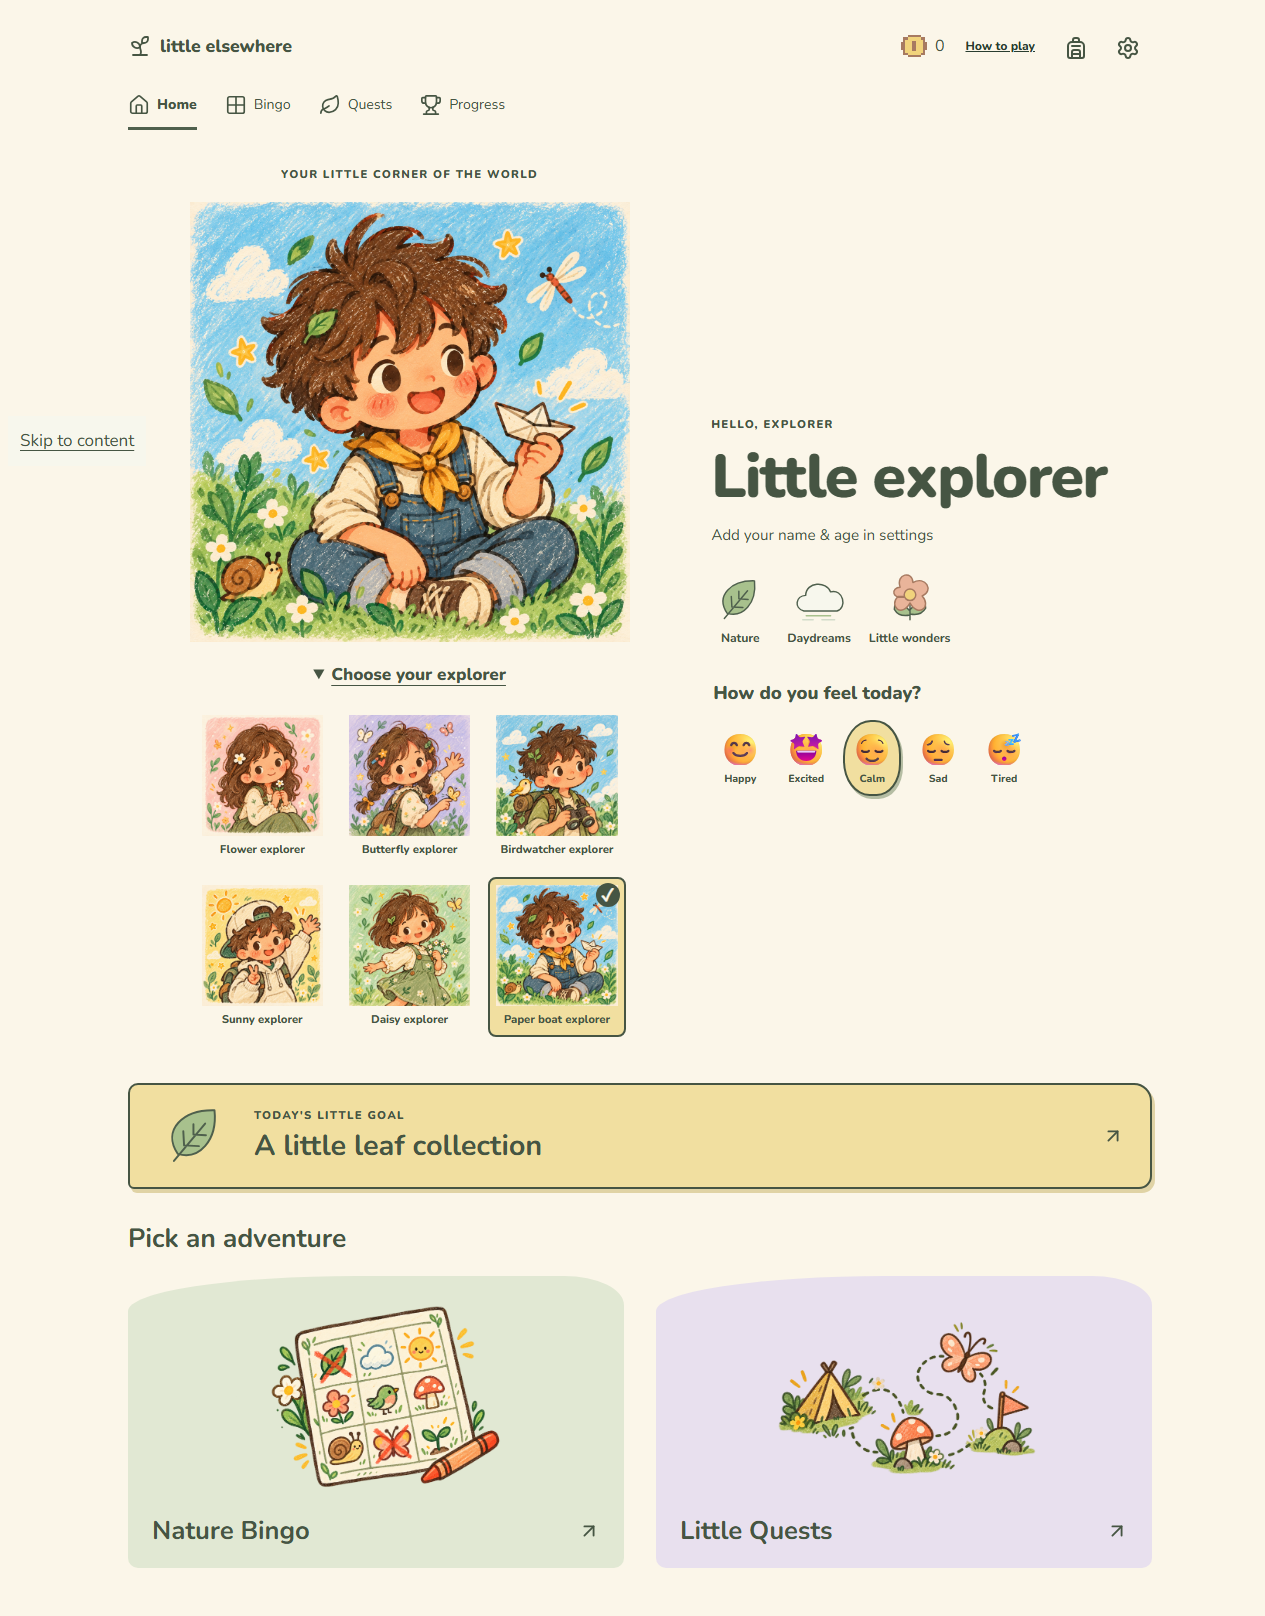
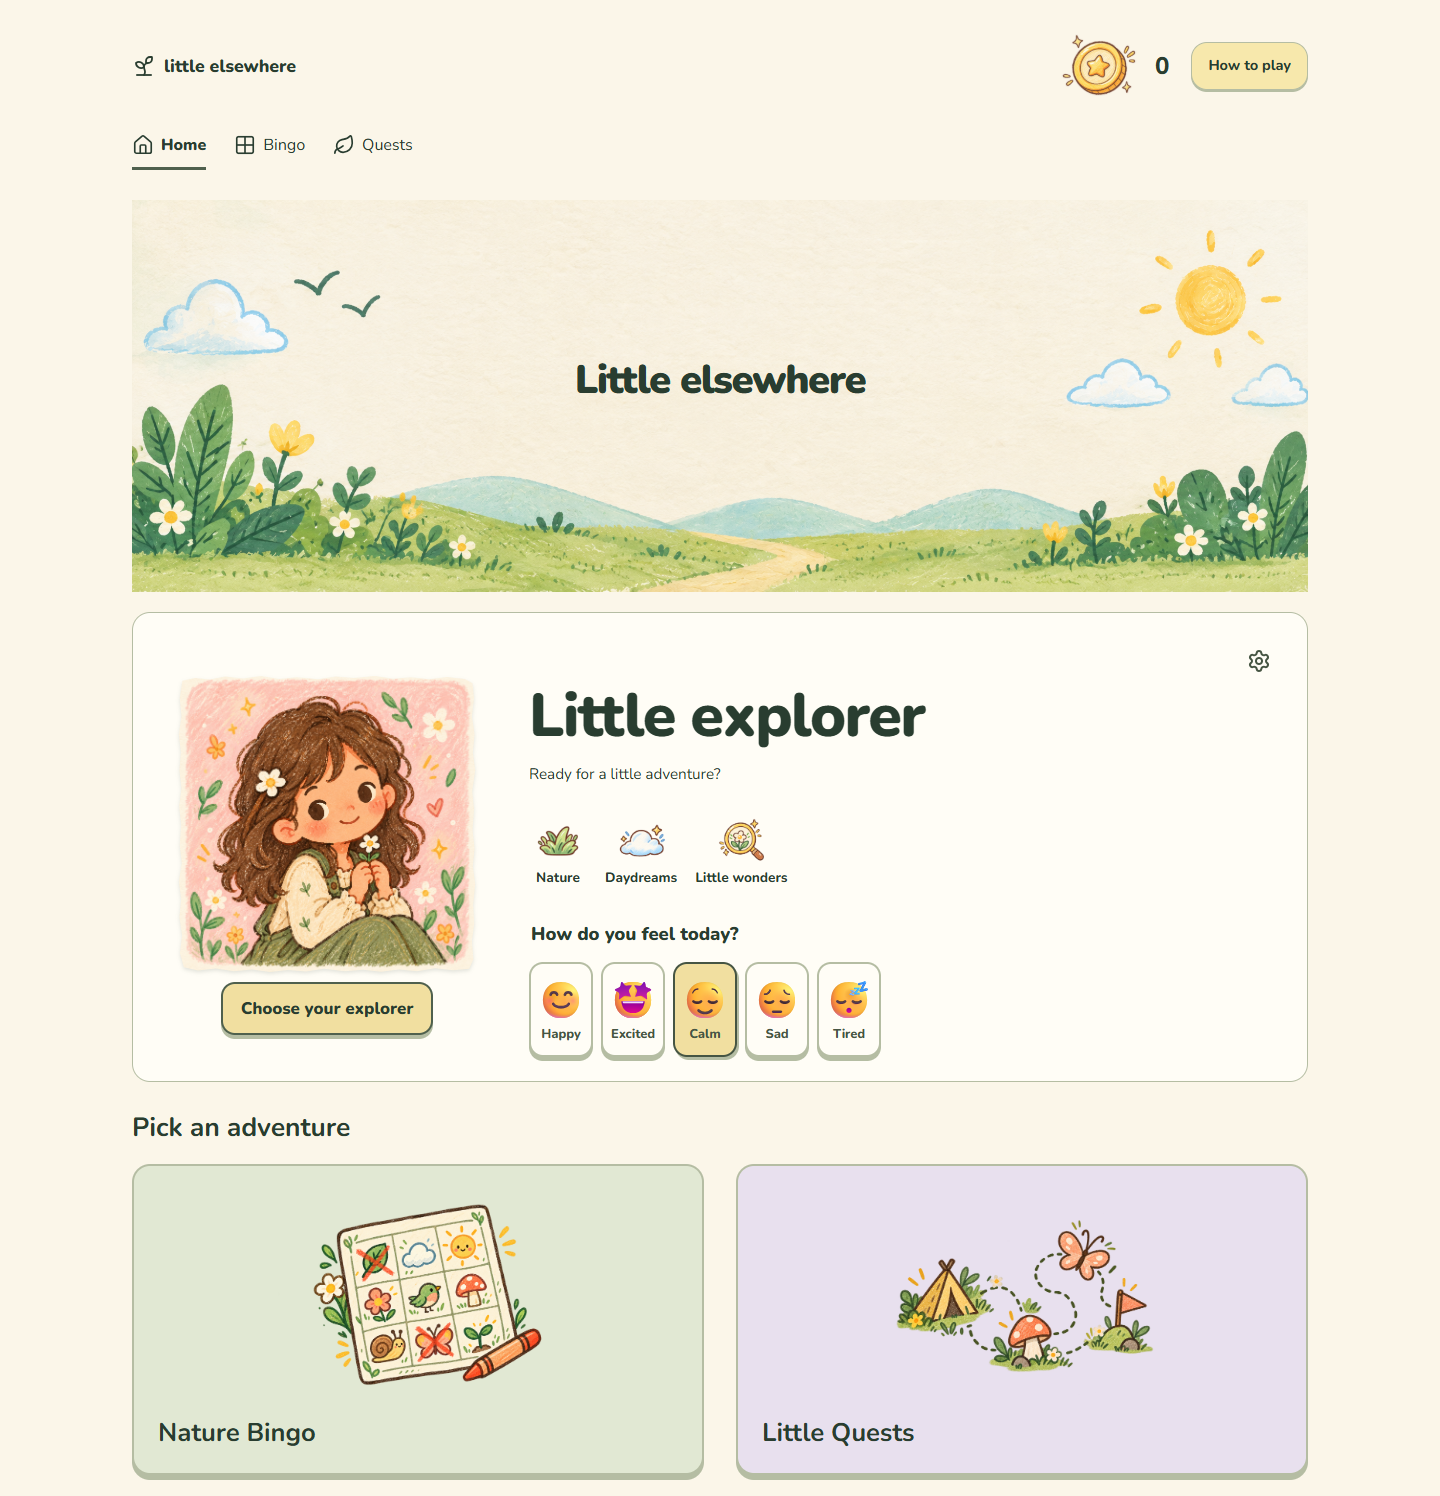
updated readme.md

diff --git a/README.md b/README.md
@@ -1,104 +1,150 @@
-# Little Elsewhere
+<h1 align="center">Little Elsewhere</h1>
 
-I'm building Little Elsewhere to make time away from a screen feel like a small adventure. Children choose something to explore, put the device away, then return to record their discoveries.
+<p align="center"><strong>Small adventures. A little more world.</strong></p>
+<p align="center">A children's outdoor adventure journal, made for time away from the screen.</p>
 
 <p align="center">
-  <img src="public/screenshots/home-current.png" alt="Little Elsewhere homepage with an explorer avatar, mood choices, today's little goal, Nature Bingo, and Little Quests" width="720" />
+  <a href="#a-peek-inside">Screenshots</a> &middot;
+  <a href="#what-works-today">Features</a> &middot;
+  <a href="#run-it-locally">Get started</a> &middot;
+  <a href="#where-i-want-to-take-it">Future plans</a>
 </p>
 
-## Why I built it
+<p align="center">
+  <img src="public/screenshots/home-current.png" alt="Little Elsewhere Home with an illustrated landscape banner, torn-paper explorer portrait, mood cards, and Bingo and Quest invitations" width="900" />
+</p>
 
-I wanted to give children a gentle reason to look around, move, create, and spend time with others. Small adventures, without streak penalties or pressure to keep playing.
+## Why Little Elsewhere?
 
-## User journey
+I wanted to make putting a screen down feel like the beginning of something good. A cloud worth noticing. A plant to care for. A small discovery to bring back.
 
-```mermaid
-flowchart TD
-    Open["Open the app"] --> Profile["View explorer profile and selected avatar"]
-    Profile --> Mood["Choose a mood"]
-    Mood --> Goal["View today's little goal"]
-    Goal --> Choose{"Pick an adventure"}
-    Choose --> Bingo["Nature Bingo: choose a discovery"]
-    Choose --> Quest["Little Quests: start a quest"]
-    Bingo --> Activity["Put the device away and do a real-world activity"]
-    Quest --> Activity
-    Activity --> Return{"Return to the app"}
-    Return --> Mark["Bingo: draw an X or use Mark"]
-    Return --> Complete["Quest: select I did it, then claim coins"]
-    Mark --> Reward["Coins for the first bingo line or full board, or a quest claim"]
-    Complete --> Reward
-    Reward --> Next{"What next?"}
-    Next --> Choose
-    Next --> Progress["View discoveries, coins, and milestones"]
-```
+Little Elsewhere gives children a gentle prompt, then a place to record what they explored. Its warm paper surfaces, original illustrations, and scrapbook details make it feel like a personal adventure journal. There are no streak penalties or pressure to keep playing.
 
-Mood selection is optional. Today's adventure prioritizes completed quests with unclaimed coins, then active quests, then available quests, and falls back to the current Bingo board when all quests are claimed. It does not reset daily. Bingo marks only earn coins when an eligible line or full board is completed.
+**Choose an adventure. Put the device away. Explore. Come back with a discovery.**
 
-## Features
+## What works today
 
-- Explorer profile with an optional name and age, six selectable avatars, and five moods.
-- A 3 by 3 Nature Bingo board with freehand X marks, a Mark button, undo, and confirmed board replacement.
-- Eight Little Quests with indoor/adapted alternatives and separate start, complete, and claim steps.
-- One-time coin rewards: 10 for the first bingo line, 20 more for the first full board, and 5–15 per quest. The current maximum is 105 coins per local profile.
-- A recent adventure journal and backpack collection on Home, showing discoveries, completed quests, and three milestones. The compatible `#/progress` route shares these sections. Milestones acknowledge progress without extra coins.
-- Local saves, first-time help, and warnings for failed saves, invalid data, or conflicting browser tabs.
+| Part of the journal | What children can do |
+| --- | --- |
+| **My explorer** | Choose from six portraits, pick a mood, and optionally save a name and age. |
+| **Nature Bingo** | Find nine little wonders. Draw an X or use Mark, undo a discovery, and start a fresh board. |
+| **Little Quests** | Explore eight activities with a Choose / Explore / Collect trail, directions, and indoor or adapted alternatives. |
+| **Coins** | Collect rewards for a first Bingo line, a first full board, and completed quests. |
+| **Journal and backpack** | Revisit recent adventures, nature finds, and three earned milestones on Home. |
+| **A helping hand** | Reopen the play guide, read friendly safety reminders, and use touch or keyboard controls. |
 
-Choose safe activities with a caregiver as needed. Progress is self-reported; the app encourages putting the device away and does not close, block, or control other apps.
+A shared illustrated banner ties the pages together. Desktop layouts give the artwork room to breathe; mobile layouts stack naturally and keep navigation within reach.
 
-## How it works
+### A little recognition, without an endless loop
 
-```mermaid
-flowchart TD
-    UI["React pages: Home, Bingo, Quests, Progress"] -->|"User actions"| Provider["AppStateProvider dispatch"]
-    Provider --> Reducer["App reducer"]
-    Reducer --> Games["Bingo marks and quest transitions"]
-    Reducer --> Profile["Profile, mood, and avatar updates"]
-    Games --> Rewards["Reward rules and duplicate checks"]
-    Rewards --> State["Updated app state and coin ledger"]
-    Profile --> State
-    State -->|"Save through AppStateProvider"| Save["Serialize to localStorage"]
-    State -->|"Render through React context"| UI
-    Save --> Stored["Saved browser snapshot"]
-    Reopen["Reopen the app"] --> Load["Load, validate, and migrate saved data"]
-    Stored --> Load
-    Load -->|"Valid saved data"| Restore["Initialize AppStateProvider"]
-    Restore --> UI
-```
+The first Bingo line earns **10 coins**, the first full board earns **20 more**, and each quest earns **5?15**. Rewards are awarded once, for a maximum of **105 coins** in the current catalog. Undoing marks or starting a new board does not award the same coins again. Milestones do not add extra rewards, and coins cannot currently be spent.
 
-The diagrams describe implemented behavior. Saves stay in the same browser and device, with one shared local profile and no backend or account sync. Clearing site storage removes progress. Invalid saves require confirmed recovery; failed saves keep progress in memory and offer a retry.
+Progress is self-reported. The app encourages exploring with a grown-up and putting the device away; it does not control other apps. The featured adventure highlights unclaimed, active, then available quests. It is not a daily reset.
 
-## Tech stack
+## A peek inside
 
-React, TypeScript, Vite, plain CSS, and Lucide icons. Nunito is loaded locally; retired Press Start 2P files and their license notice remain bundled. Tests use Vitest, React Testing Library, and jsdom. Exact versions are pinned in [package.json](package.json) and package-lock.json.
+Actual browser captures of the current interface, refreshed **14 October 2026**. The screenshots use the default explorer, with Calm selected and no completed activities.
 
-See [ARCHITECTURE.md](ARCHITECTURE.md) for the current folder map, module responsibilities, CSS ownership, and retained development resources.
+| Nature Bingo | Little Quests |
+| :---: | :---: |
+| [![Illustrated desktop Bingo board with nine discoveries and a friendly safety reminder](public/screenshots/bingo-desktop.png)](public/screenshots/bingo-desktop.png) | [![Desktop quest cards with supplied artwork, progress trails, and coin rewards](public/screenshots/quests-desktop.png)](public/screenshots/quests-desktop.png) |
 
-## Setup and run
+<details>
+<summary><strong>Open the mobile scrapbook</strong></summary>
 
-Requires Node.js `^24.15.0` or `>=26.0.0` and npm. [.nvmrc](.nvmrc) specifies the tested version, `24.16.0`.
+<p>Home, Bingo, and Quests at a 390px phone width. Select an image to open the full capture.</p>
+
+<table>
+  <tr><th>Home</th><th>Bingo</th><th>Quests</th></tr>
+  <tr>
+    <td valign="top"><a href="public/screenshots/home-mobile.png"><img src="public/screenshots/home-mobile.png" alt="Mobile Home with explorer profile, mood choices, journal, and backpack" width="260" /></a></td>
+    <td valign="top"><a href="public/screenshots/bingo-mobile.png"><img src="public/screenshots/bingo-mobile.png" alt="Mobile Bingo with large activity illustrations, Mark controls, and bottom navigation" width="260" /></a></td>
+    <td valign="top"><a href="public/screenshots/quests-mobile.png"><img src="public/screenshots/quests-mobile.png" alt="Mobile Quests stacked into a single column with illustrated progress trails" width="260" /></a></td>
+  </tr>
+</table>
+
+</details>
+
+<details>
+<summary><strong>See the complete Home and progress pages</strong></summary>
+
+- [Full desktop Home](public/screenshots/home-desktop.png)
+- [Journal and backpack on the compatibility Progress page](public/screenshots/progress-desktop.png)
+
+</details>
+
+## Run it locally
+
+Use **Node.js 24.15+ within version 24, or version 26+**, and npm. The tested version is **24.16.0**, also recorded in [.nvmrc](.nvmrc). Exact engine requirements are in [package.json](package.json).
 
 ```sh
 npm ci
 npm run dev
 ```
 
-Open the URL printed by Vite, normally http://127.0.0.1:5173/. Stop the server with Ctrl+C.
+Open the URL printed by Vite, normally `http://127.0.0.1:5173/`.
 
-```sh
-npm run typecheck
-npm test
-npm run build
-npm run preview
-```
+| Command | Purpose |
+| --- | --- |
+| `npm run typecheck` | Check TypeScript. |
+| `npm test` | Run the regression suite. |
+| `npm run test:watch` | Run tests while working. |
+| `npm run build` | Check types and create the production build in `dist/`. |
+| `npm run preview` | Serve the build locally, normally on port 4173. |
 
-`npm run test:watch` runs tests in watch mode. The build command checks TypeScript and writes `dist/`; preview serves that build, normally at http://127.0.0.1:4173/. Both servers bind to loopback.
+Both local servers bind to loopback. Stop them with Ctrl+C.
 
-## Current status / future plans
+## Under the paper
 
-This is a functional local MVP, and I'm still redesigning the interface. Home, Bingo, quests, profile choices, rewards, progress, and local persistence are implemented. Public deployment is not configured.
+**React ? TypeScript ? Vite ? plain CSS ? Lucide**
 
-Future ideas include a virtual garden, seasonal activities, family-created quests, and a richer explorer journal with photos, notes, or drawings. These are not implemented or committed; the current journal displays recorded achievements. Coins currently cannot be spent; there is no shop or virtual world.
+The app uses one reducer and React context for profile choices, Bingo, quests, and rewards. Hash routes keep navigation simple. Nunito and the supplied PNG artwork are bundled locally.
 
-To refresh the banner, run `npm run dev`, open Home at a desktop width, dismiss welcome help, and capture the page using browser screenshot tools. Use the default profile or fictional details, then replace `public/screenshots/home-current.png` so the README path stays the same.
+| Folder | Responsibility |
+| --- | --- |
+| `src/pages` and `src/components` | Pages, shared banner, controls, profile, journal, and backpack. |
+| `src/features` | Bingo drawing and line detection, quest cards, and reward rules. |
+| `src/data` | Quest definitions, Bingo activities, and explorer portraits. |
+| `src/app` and `src/persistence` | State transitions, routing, validation, migrations, and browser saves. |
+| `src/styles` and `public/assets` | Scrapbook styling and original artwork. |
+| `src/tests` | Regression coverage for journeys, rewards, drawing, profiles, and saved progress. |
 
-Before public release, broader accessibility and device checks, family feedback, and license selection remain. See [PRODUCT.md](PRODUCT.md) for the wider vision and [ASSETS.md](ASSETS.md) for artwork and license notices. A project license has not yet been selected.
+### Your adventures stay in your browser
+
+There is one shared local profile per browser, saved in `localStorage`. No accounts, backend, analytics, ads, or activity uploads are implemented. Saves do not sync between devices, and clearing site storage removes progress. Failed saves offer a retry; unreadable saves require confirmation before recovery. Real-world activities can happen offline, but offline loading of the website is not guaranteed.
+
+## Where I want to take it
+
+The browser MVP works today. These are the next directions I want to explore, **not shipped features or promised release dates**.
+
+| Direction | The idea |
+| --- | --- |
+| **Grow Your World** | A virtual garden, forest, or miniature world with unlockable plants, decorations, animals, environments, and explorer cosmetics. This needs a separate spending economy. |
+| **Family Screen-Time Agreements** | Caregiver-defined routines and expectations, with flexible exceptions and child-friendly explanations. Controlling other apps would require separate platform feasibility work, permissions, and parental consent. |
+| **Shared Adventures** | Private family or friend rooms, shared goals, cooperative sessions, timers, and collective progress, with careful joining and moderation. |
+| **Explorer Journal** | Photos, observations, drawings, and notes. Possible image recognition or visual search would need reliable educational sources, clear uncertainty, guardian controls, and photo/location protection. |
+
+Other ideas on my list: seasonal and themed Bingo, rainy-day collections, family-created quests, ability-specific activities, collectible companions, printable cards, and family dashboards.
+
+Family feedback, safety, accessibility, and practical value will shape what comes first. The current project has no shop, virtual world, multiplayer, app blocking, or image-recognition service.
+
+### Before a public release
+
+- Test with families and refine reading level, activity alternatives, and shared-profile use.
+- Complete broader screen-reader, browser, zoom, and physical touch/stylus checks.
+- Select a project license, confirm artwork distribution rights, and configure deployment.
+
+## Project notebook
+
+| Read more | Inside |
+| --- | --- |
+| [Product](PRODUCT.md) | Vision, exact MVP scope, reward economy, and the full roadmap. |
+| [Architecture](ARCHITECTURE.md) | Modules, state models, and implementation decisions. |
+| [Design](DESIGN.md) | Scrapbook direction and interface treatments. |
+| [Assets](ASSETS.md) | Original artwork, bundled fonts, and license notices. |
+| [Tasks](TASKS.md) | Delivery checklist and dated verification history. |
+| [Rules](RULES.md) | Scope, privacy, safety, and code-preservation guidelines. |
+
+The latest application verification passed **56 tests across eight files**, TypeScript checks, and the production build. Earlier counts in delivery notes describe earlier snapshots. Public deployment is not configured, and a project license has not yet been selected.
+
+To refresh the gallery, run the local preview and capture the rendered pages at desktop and phone widths. Use a fresh browser session and default or fictional profile details; replace the images in `public/screenshots/` while preserving their filenames.
